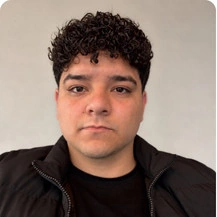
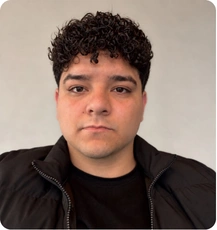
Oferta Genesis: slide de Equipo con fotos grandes y rol destacado
Claude-Session: https://claude.ai/code/session_016N68SrACTDvjvD1JivDEhs

diff --git a/agentes/mi-negocio/ventas/oferta-genesis.html b/agentes/mi-negocio/ventas/oferta-genesis.html
@@ -180,6 +180,18 @@
   .pill { background: var(--naranja-fuerte); color: #fff; font-weight: 600; text-align: center; padding: 9px 12px; border-radius: 10px; font-size: 16px; }
   .resultados-top { display: grid; grid-template-columns: repeat(auto-fit, minmax(170px, 1fr)); gap: 12px; }
   .tarjeta .avatar-foto { width: 72px; }
+  .eq-grid { display: grid; grid-template-columns: repeat(2, minmax(0, 1fr)); gap: 16px; }
+  .eq-card { padding: clamp(14px, 2.2vh, 20px); display: grid; gap: clamp(12px, 2vh, 18px); align-content: start; }
+  .eq-top { display: grid; grid-template-columns: clamp(120px, min(16vw, 24vh), 210px) minmax(0, 1fr); gap: 20px; align-items: end; }
+  .eq-foto { width: 100%; aspect-ratio: 1; object-fit: cover; border-radius: 16px; display: block; box-shadow: 0 0 0 1px rgba(232,130,58,.45), 0 20px 50px rgba(0,0,0,.45); }
+  .eq-tx { display: grid; gap: 4px; padding-bottom: 6px; }
+  .eq-handle { font-size: 14px; color: var(--gris-2); }
+  .eq-tx b { font-size: clamp(34px, 4vw, 52px); font-weight: 300; letter-spacing: -0.04em; line-height: 1; color: var(--hueso); }
+  .eq-dato { font-size: 17px; color: var(--naranja); }
+  .eq-prueba { border-radius: 12px; border: 1px solid var(--borde); overflow: hidden; height: clamp(150px, 27vh, 300px); display: grid; place-items: center; }
+  .eq-prueba img { width: 100%; height: 100%; min-height: 0; max-height: 100%; object-fit: contain; display: block; }
+  .eq-prueba { grid-template-rows: minmax(0, 1fr); grid-template-columns: minmax(0, 1fr); }
+  @media (max-width: 800px) { .eq-grid { grid-template-columns: 1fr; } }
   .prueba-grande { width: 100%; border-radius: 10px; border: 1px solid var(--borde); display: block; }
   .galeria-movil { display: grid; grid-template-columns: repeat(auto-fill, minmax(150px, 1fr)); gap: 10px; }
   .galeria-movil img { width: 100%; border-radius: 10px; border: 1px solid var(--borde); display: block; }
@@ -512,8 +524,8 @@ const OFERTAS = {
 };
 
 const EQUIPO = [
-  { nombre: "Manu · Founder de Genesis OS", dato: "+USD 3M · 3 años", foto: "manuFoto", prueba: "manuPanel", mini: "manuPanelMini" },
-  { nombre: "José · Co-founder de Genesis OS", dato: "+USD 2M · 1 año y medio", foto: "joseFoto", prueba: "joseVentas", mini: "joseVentas" }
+  { nombre: "Manu · Founder de Genesis OS", handle: "@manudomzz", rol: "Founder", dato: "+USD 3M · 3 años", foto: "manuFoto", prueba: "manuPanel", mini: "manuPanelMini", fondo: "#f5f5f5" },
+  { nombre: "José · Co-founder de Genesis OS", handle: "@_josezelaya", rol: "Co-founder", dato: "+USD 2M · 1 año y medio", foto: "joseFoto", prueba: "joseVentas", mini: "joseVentas", fondo: "#000" }
 ];
 const ETAPAS = [
   ["Buscar el producto","Un consumible: algo que se termina y tu cliente vuelve a comprar."],
@@ -607,11 +619,18 @@ function armarSlides() {
 
   S.push({ id: "equipo", nombre: "Equipo", html: `
     <div class="slide">
-      <div class="slide-head"><span class="k">Equipo</span><h2>Con quién lo hacés</h2><p>Manu y José están en la entrega de cada marca del programa.</p></div>
-      <div class="tarjetas">${EQUIPO.map(e => `
-        <div class="tarjeta vidrio">
-          <div class="persona">${img(e.foto, "avatar-foto")}<div><b style="color:var(--naranja);font-size:18px">${e.nombre}</b><small class="num" style="font-size:14px">${e.dato}</small></div></div>
-          ${img(e.prueba, "prueba-grande")}
+      <div class="slide-head" style="max-width:none"><span class="k">Equipo</span><h2 style="font-size:clamp(30px, min(4.4vw, 7vh), 54px)">Con quiénes vas a escalar tu ecom</h2></div>
+      <div class="eq-grid">${EQUIPO.map(e => `
+        <div class="eq-card vidrio">
+          <div class="eq-top">
+            ${img(e.foto, "eq-foto")}
+            <div class="eq-tx">
+              <span class="eq-handle">${e.handle}</span>
+              <b>${e.rol}</b>
+              <span class="eq-dato num">${e.dato}</span>
+            </div>
+          </div>
+          <div class="eq-prueba" style="background:${e.fondo}">${img(e.prueba)}</div>
         </div>`).join("")}
       </div>
     </div>` });
